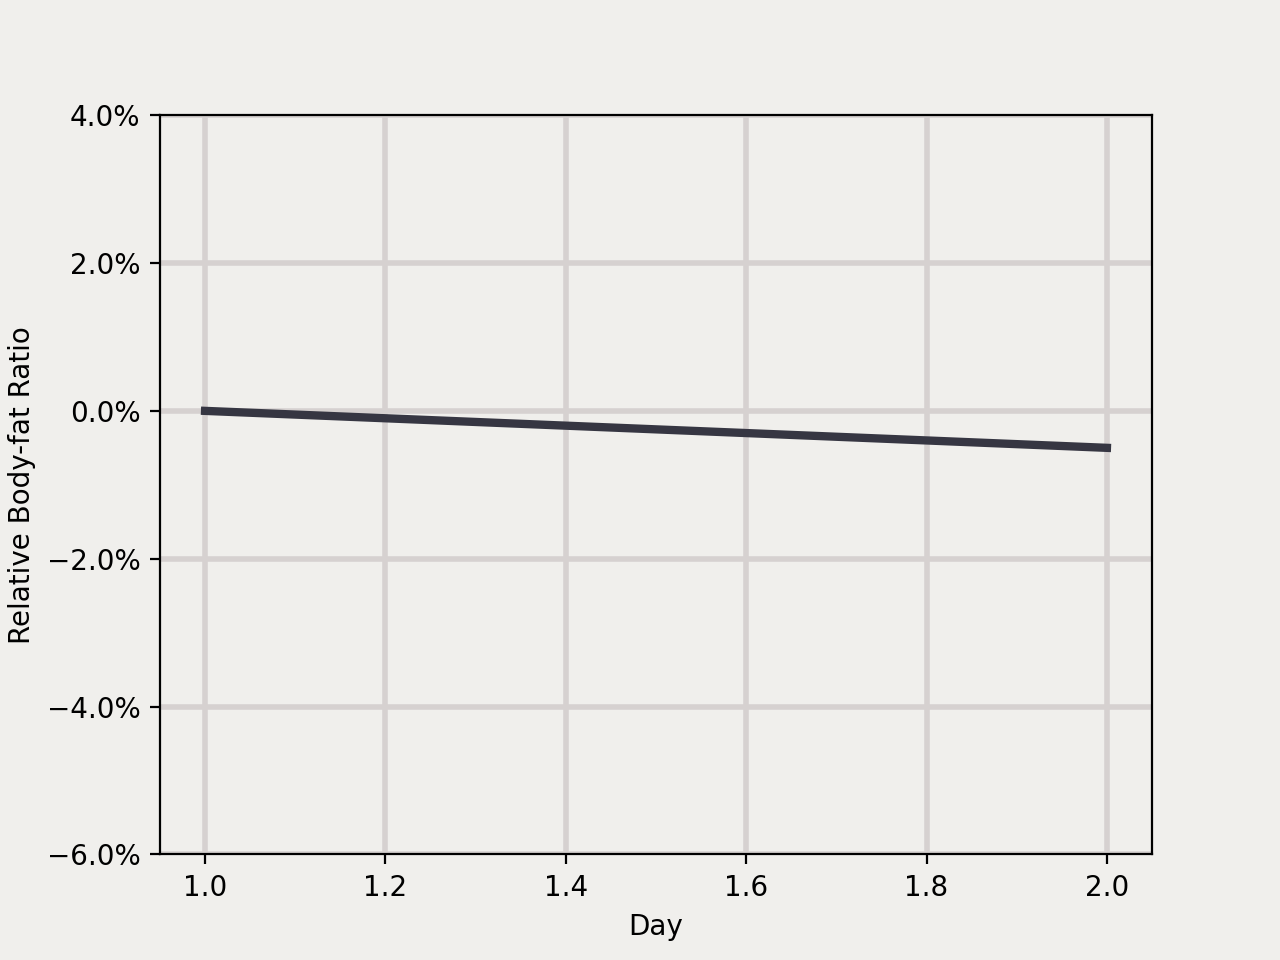
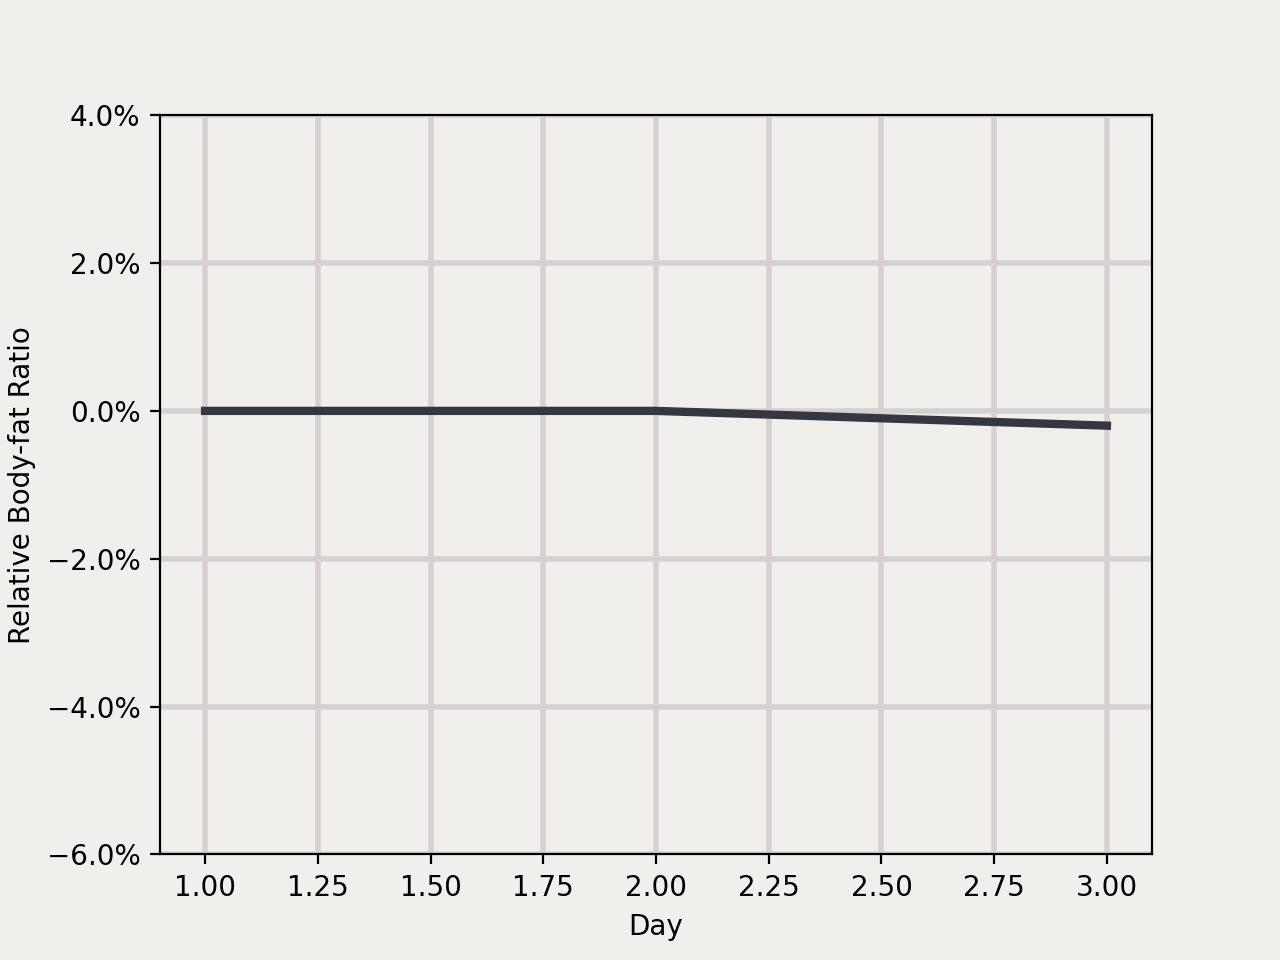
imporve chart

diff --git a/body_tracker/main.html b/body_tracker/main.html
@@ -29,17 +29,17 @@
     </ol>
     <div class="carousel-inner">
       <div class="carousel-item active">
-        <img src="pictures/rbf_1.png" class="d-block w-100" alt="...">
+        <img src="pictures/cx_1.png" class="d-block w-100" alt="...">
         <div class="carousel-caption d-none d-md-block">
-          <h3>相对体脂率变化</h3>
-          <p>体脂率测量使用华为体脂称, 横坐标为项目已开始时间, 纵坐标为(当前体脂率-初始体脂率)</p>
+          <h3>曹旭</h3>
+          <p>体脂率测量使用华为体脂称, 横坐标为项目已开始时间, 相对体脂率为:当前体脂率-初始体脂率</p>
         </div>
       </div>
       <div class="carousel-item">
-        <img src="pictures/w_1.png" class="d-block w-100" alt="...">
+        <img src="pictures/cx_1.png" class="d-block w-100" alt="...">
         <div class="carousel-caption d-none d-md-block">
-          <h3>体重变化</h3>
-          <p>横坐标为项目已开始时间, 纵坐标为体重, 单位:kg</p>
+          <h3>徐洪飞</h3>
+          <p>体脂率测量使用华为体脂称, 横坐标为项目已开始时间, 相对体脂率为:当前体脂率-初始体脂率</p>
         </div>
       </div>
     </div>

diff --git a/body_tracker/programs/picicture_generator_2.py b/body_tracker/programs/picicture_generator_2.py
@@ -1,0 +1,47 @@
+import pandas as pd
+import matplotlib.pyplot as plt
+import matplotlib.ticker as mtick
+from PIL import Image
+import os
+
+cwd = os.getcwd()  # Get the current working directory (cwd)
+# files = os.listdir(cwd)  # Get all the files in that directory
+# print("Files in %r: %s" % (cwd, files))
+data_loc = cwd + "/body_data.csv"
+pic_loc = cwd + "/../pictures/"
+df = pd.read_csv(data_loc)
+
+fig1 = plt.figure()
+ax1 = fig1.add_subplot(111)
+ax1.set_xlabel("Day")
+ax1.set_ylabel("Weight", color='#610006')
+ax1.grid(True, which='both', axis='both', color='#D6D1D0', linestyle='-', linewidth=1)
+ax1.plot(df["day_num"], df["weight"], color='#610006', linewidth='3')
+ax1.set_facecolor('#F0EFEC')
+ax1.set_ylim((65, 73))
+ax1.tick_params(axis='y', labelcolor='#610006')
+
+ax2 = ax1.twinx()
+ax2.set_xlabel("Day")
+ax2.set_ylabel('Relative Body-fat Ratio', color='#363642')
+# ax2.grid(True, which='both', axis='both', color='#D6D1D0', linestyle='-', linewidth=2)
+ax2.plot(df["day_num"], df["delta_of_bf_ratio"], color='#363642', linewidth='3')
+ax2.yaxis.set_major_formatter(mtick.PercentFormatter())
+ax2.set_facecolor('#F0EFEC')
+ax2.set_ylim((-6, 2))
+ax2.tick_params(axis='y', labelcolor='#363642')
+
+fig1.set_facecolor('#F0EFEC')
+plt.show()
+
+fig1.savefig(pic_loc + 'cx_0.png', dpi=200, bbox_inches='tight')
+
+img = Image.open(pic_loc + 'cx_0.png', 'r')
+img_w, img_h = img.size
+background = Image.new('RGB', (2300, 1200), (240, 239, 236))
+bg_w, bg_h = background.size
+# offset = ((bg_w - img_w) // 2, (bg_h - img_h) // 2)
+offset = ((bg_w - img_w) // 2, 0)
+background.paste(img, offset)
+background.save(pic_loc + 'cx_1.png')
+
